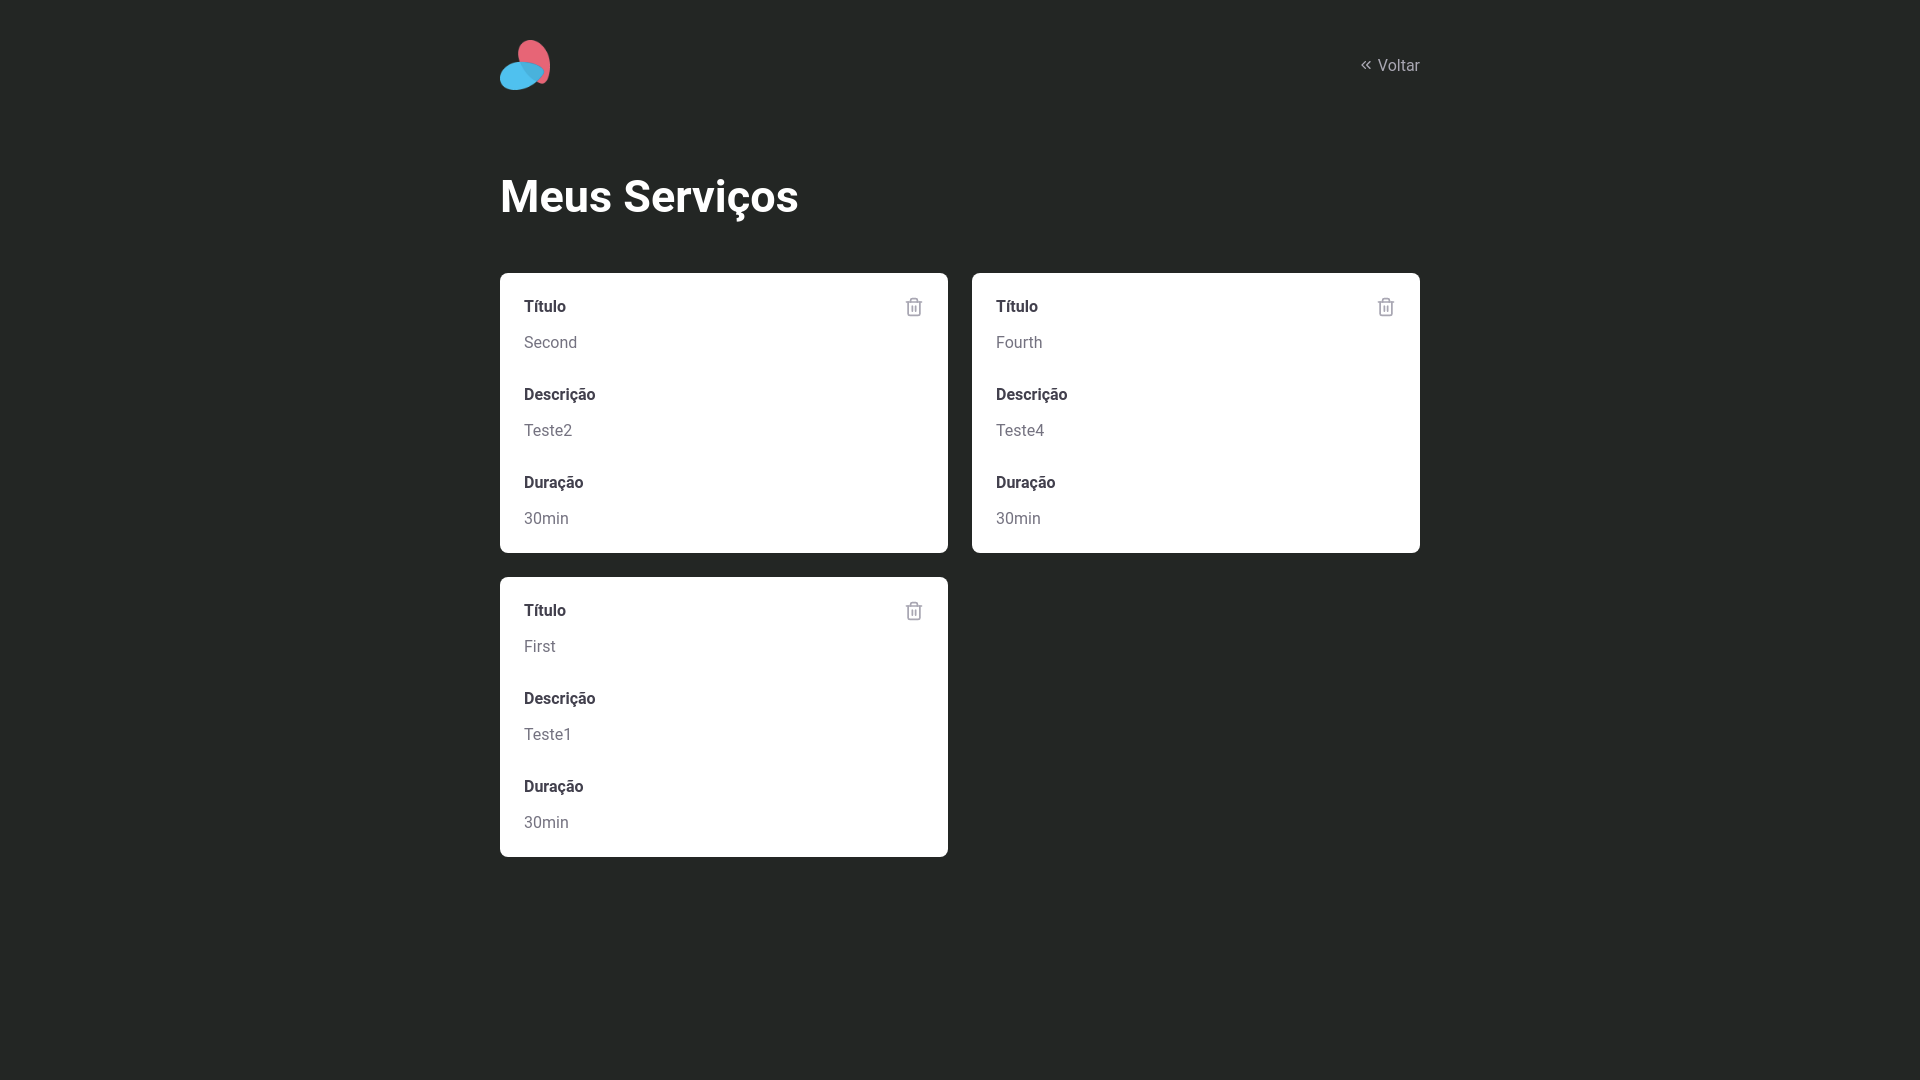
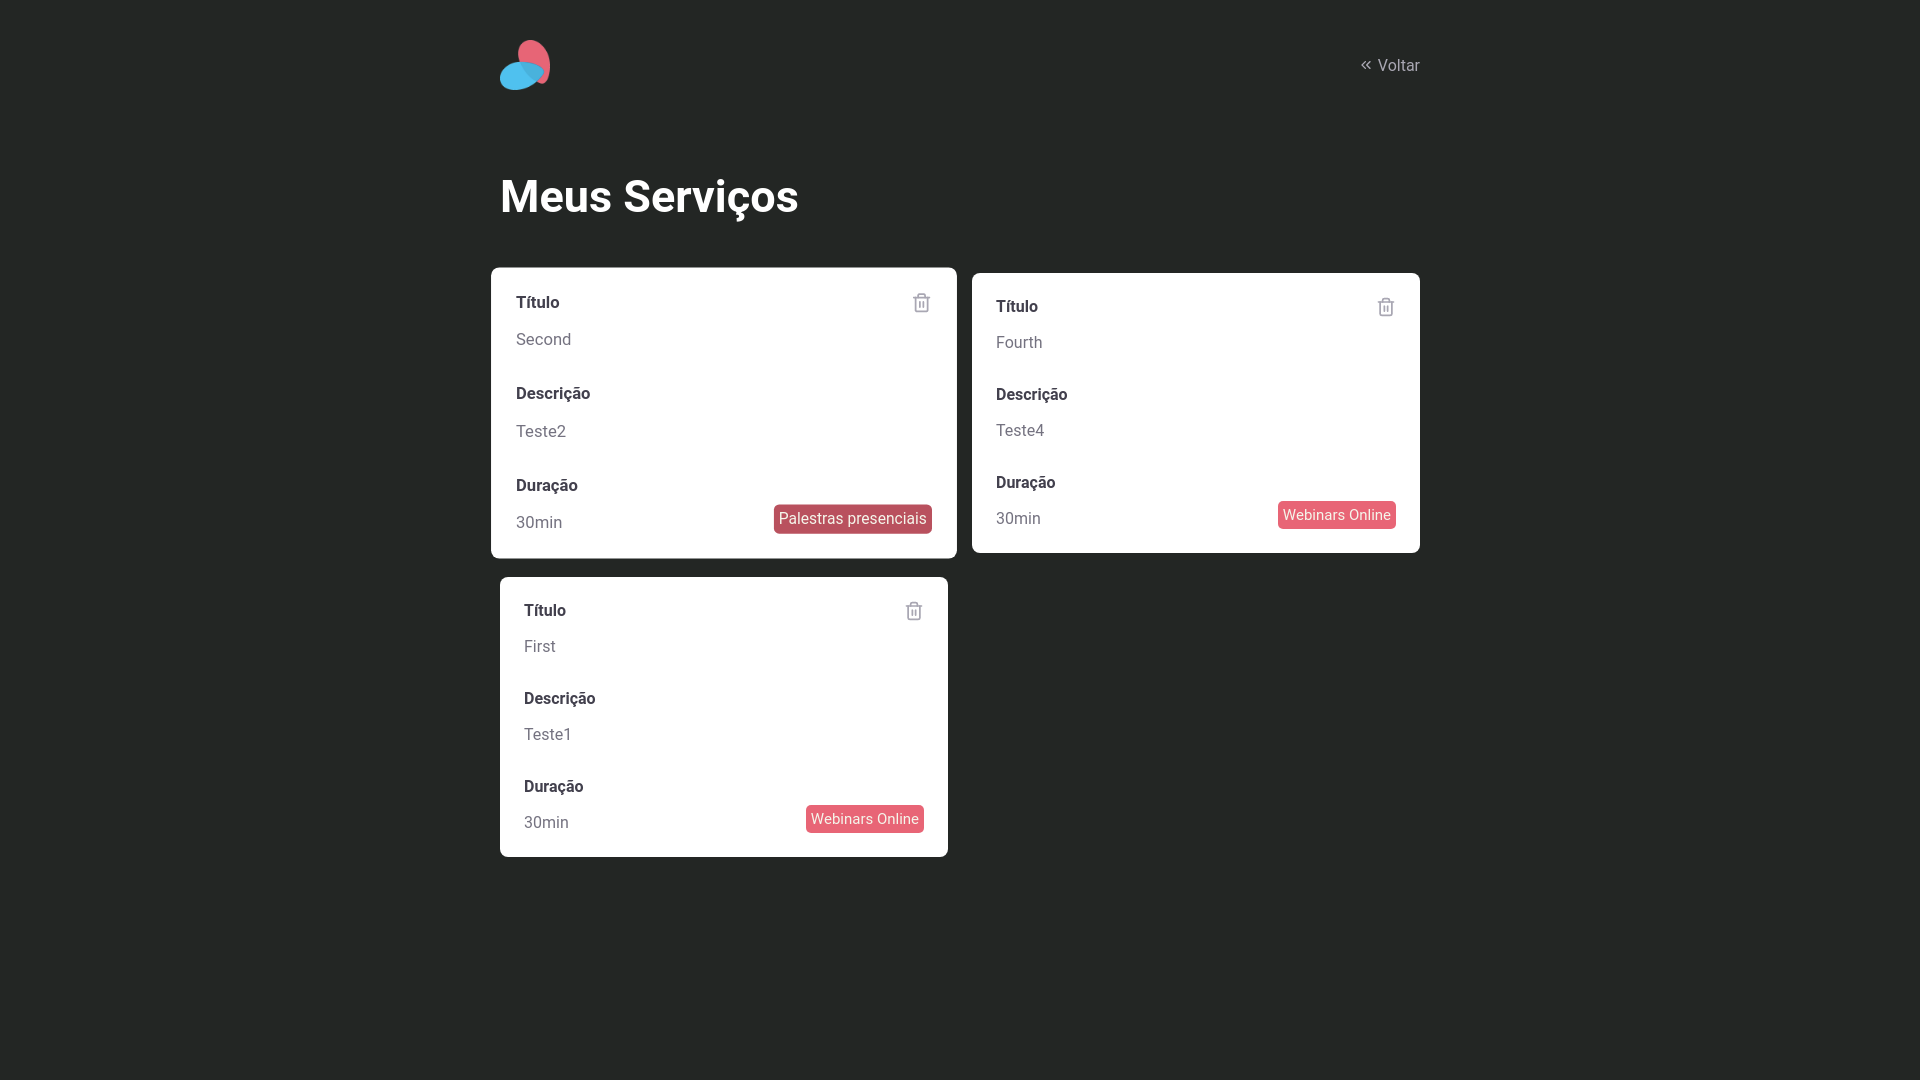
Category now appears correctly in myAccount

Changed region(s): [[0.25, 0.2444, 0.5, 0.5194], [0.4062, 0.7333, 0.5, 0.7944], [0.6562, 0.4583, 0.75, 0.4889]]

diff --git a/src/pages/MyRepositories/index.tsx b/src/pages/MyRepositories/index.tsx
@@ -63,7 +63,7 @@ const MyRepositories: React.FC = () => {
 
               <strong>Duração</strong>
               <p>{repo.length}</p>
-
+              <span>{repo.category}</span>
               <button
                 type="button"
                 onClick={() => handleDeleteButton(repo.title)}
